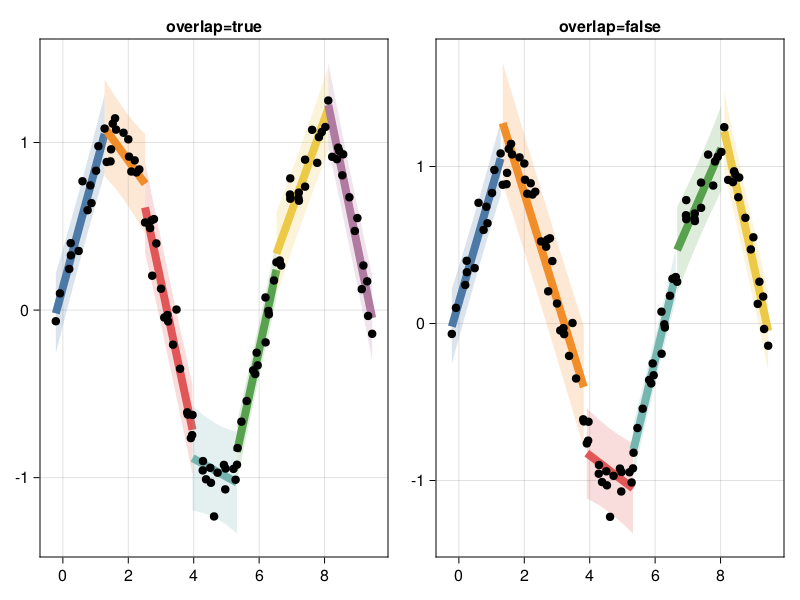
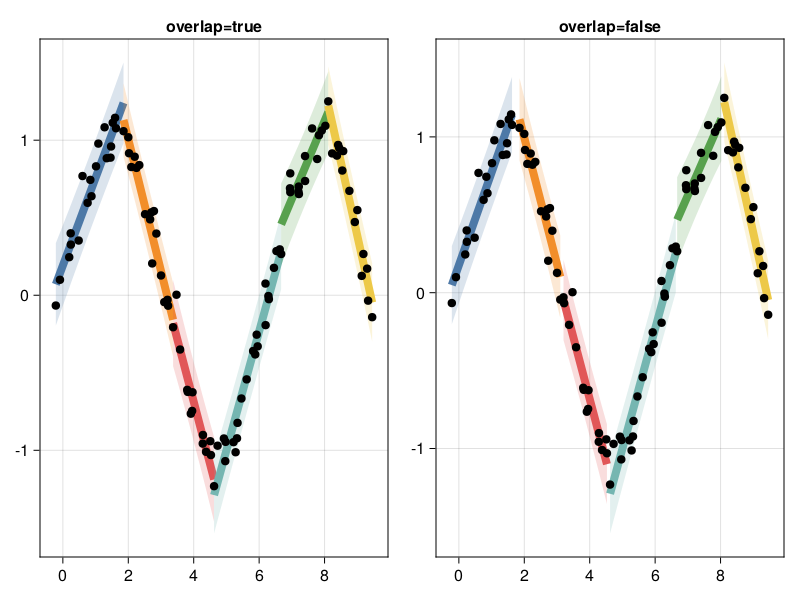
fixup readme for topdown

Changed region(s): [[0.5625, 0.12, 0.9688, 0.9], [0.0625, 0.12, 0.4688, 0.9], [0.5, 0.48, 0.5312, 0.51]]

diff --git a/README.md b/README.md
@@ -71,10 +71,10 @@ kwargs).
 ```julia
 using LinearSegmentation, CairoMakie
 
-segs, fits = top_down(xs, ys; min_segment_length=1.2, max_rmse=0.15)
+segments = top_down(xs, ys; min_segment_length=1.2)
 
 # skipped some plotting steps
-for (i, (_xs, _ys, _lbs, _ubs)) in enumerate(xyboundgroups(segs, fits, xs))
+for (i, (_xs, _ys, _lbs, _ubs)) in enumerate(xyboundgroups(segments, xs))
     lines!(ax, _xs, _ys; color=ColorSchemes.tableau_10[i], linewidth=8)
     band!(ax, _xs, _lbs, _ubs; color=(ColorSchemes.tableau_10[i], 0.2))
 end
